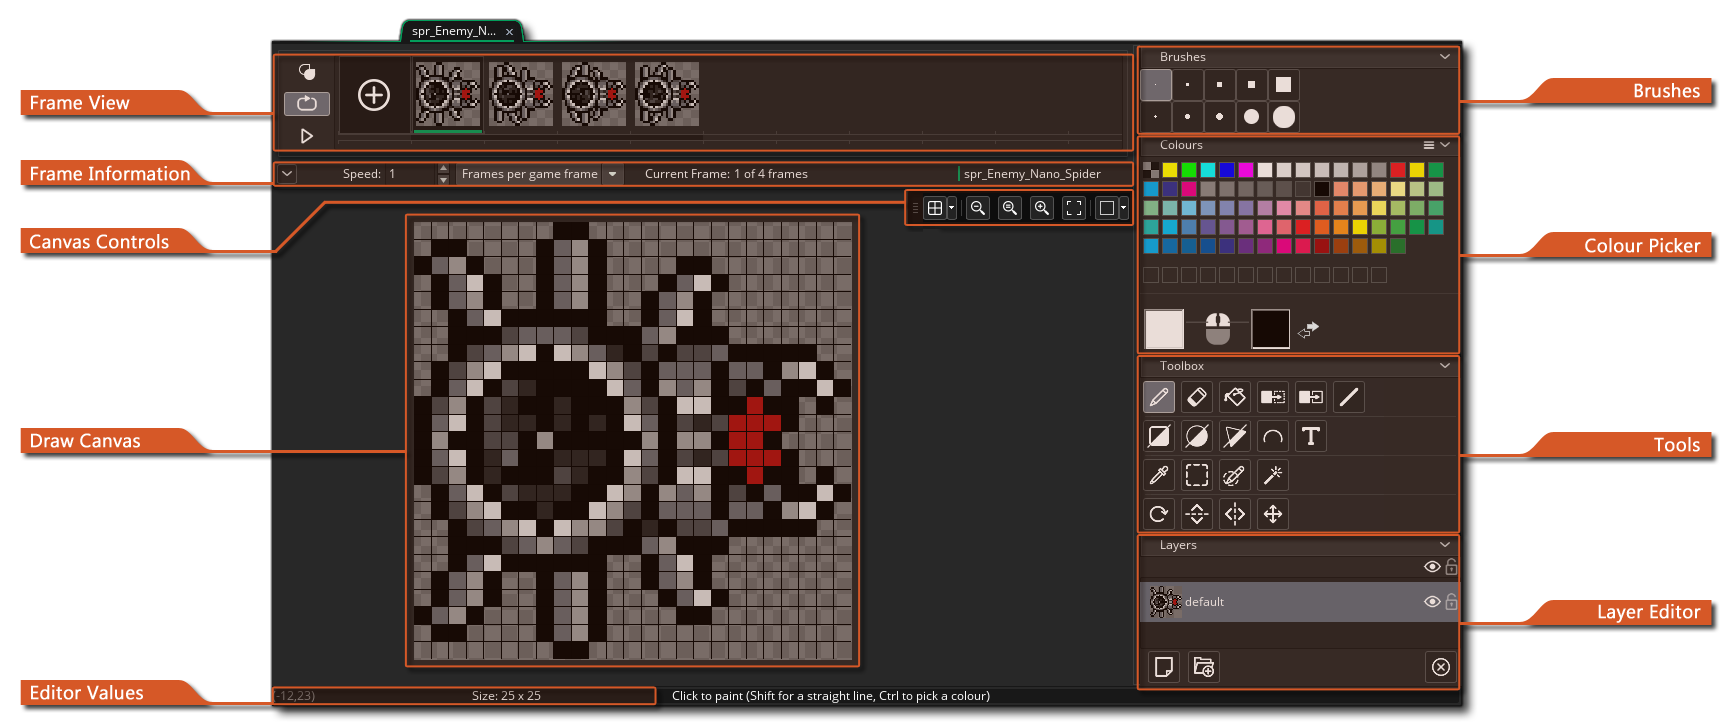
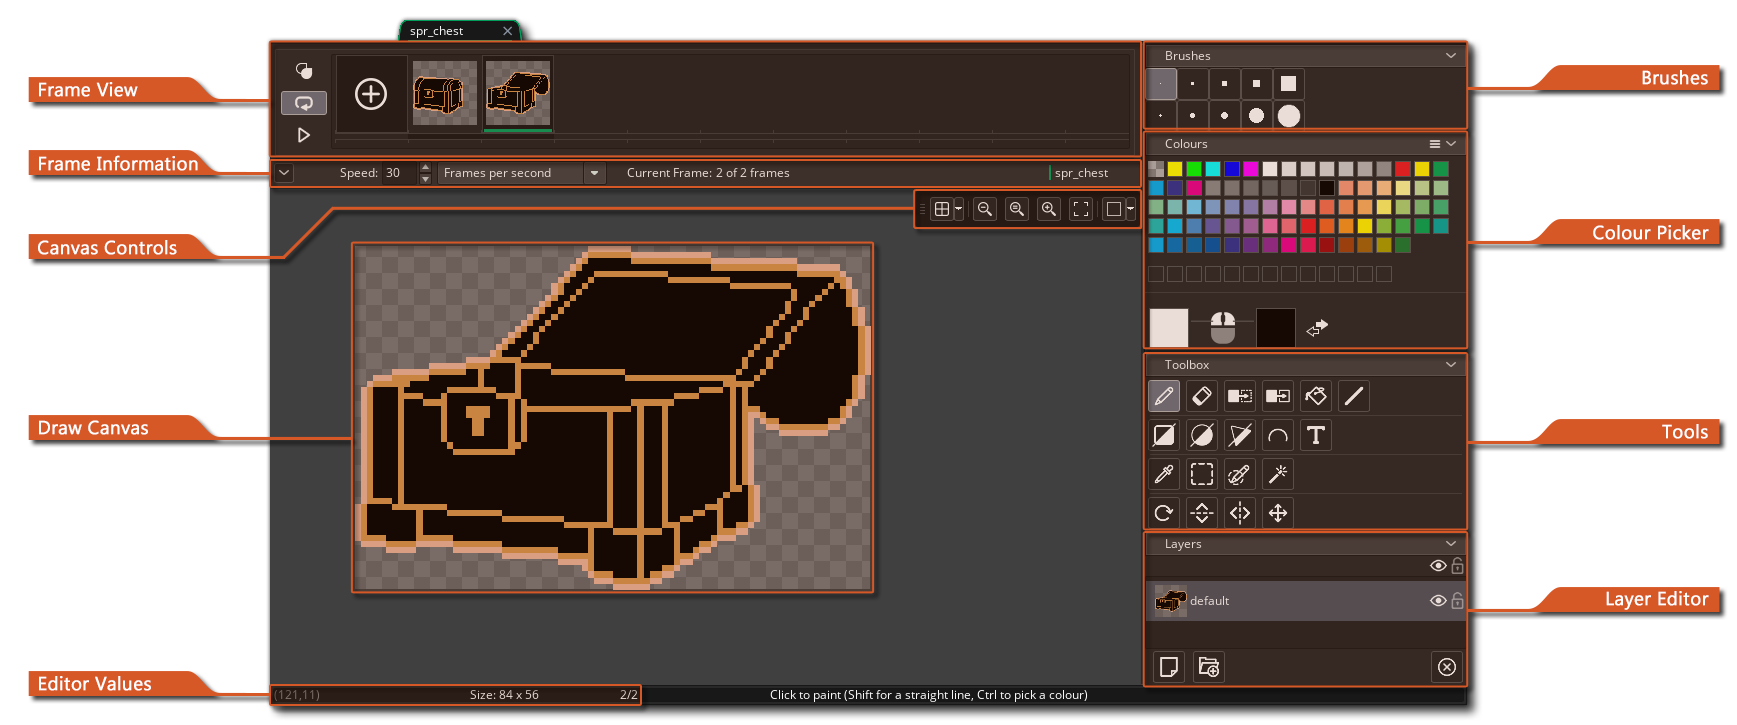
docs(feature): Make the frame number visible inside the Sprite Editor YoYoGames/GameMaker-Bugs#5474
The Image Editor page: Updated the screenshot and the description of the "Editor Values" section

Changed region(s): [[0.0, 0.0303, 0.9977, 1.0]]

diff --git a/Manual/contents/The_Asset_Editors/Image_Editor.htm b/Manual/contents/The_Asset_Editors/Image_Editor.htm
@@ -56,7 +56,7 @@
   </div>
   <p><a class="dropspot" data-rhwidget="DropSpot" data-target="drop-down4" href="#">Canvas Values</a></p>
   <div class="droptext" data-targetname="drop-down4">
-    <p class="dropspot">This small bar at the bottom shows the different values for the mouse position and width and height of the selection tools in the editor.</p>
+    <p class="dropspot">This small bar at the bottom shows the different values for the mouse position, the width and height of the selection tools in the editor and the current frame and total number of frames.</p>
     <p class="dropspot"> </p>
   </div>
   <p><a class="dropspot" data-rhwidget="DropSpot" data-target="drop-down5" href="#">Brushes</a></p>
